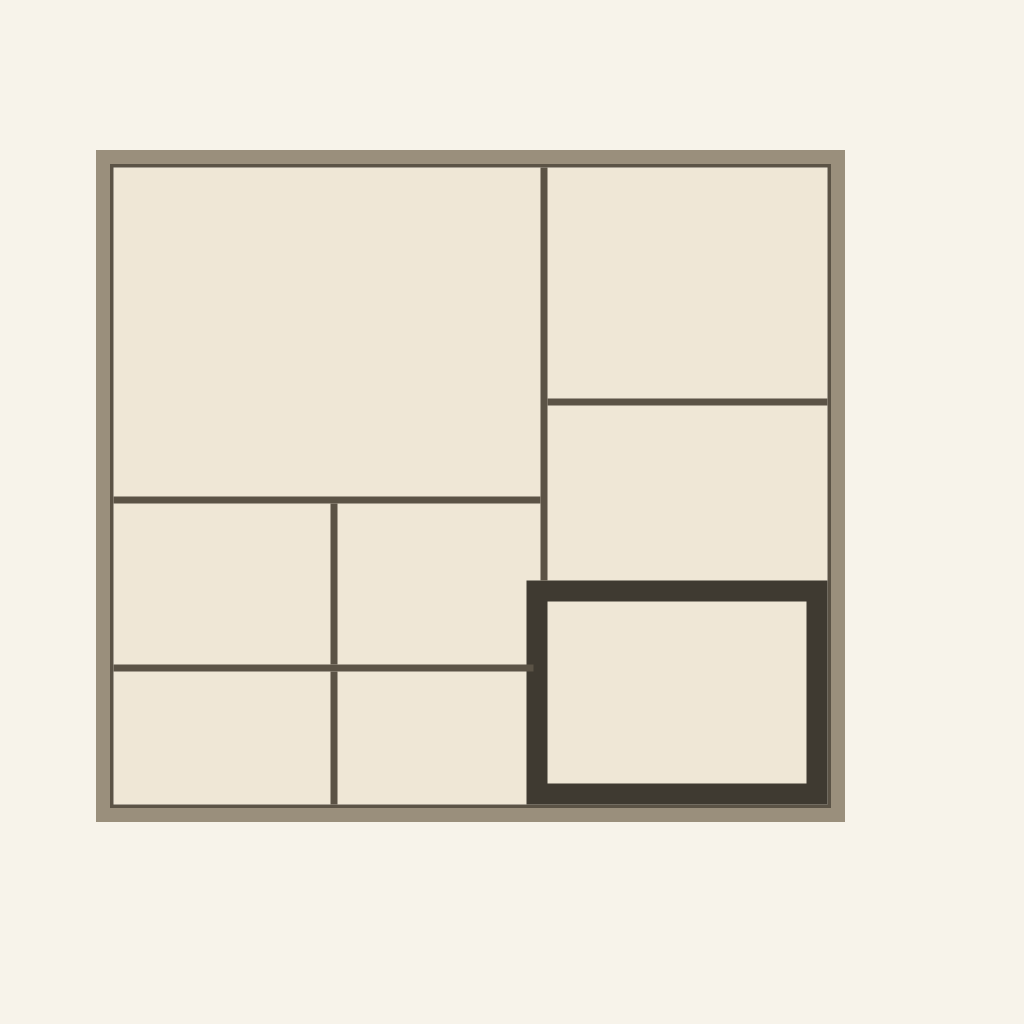
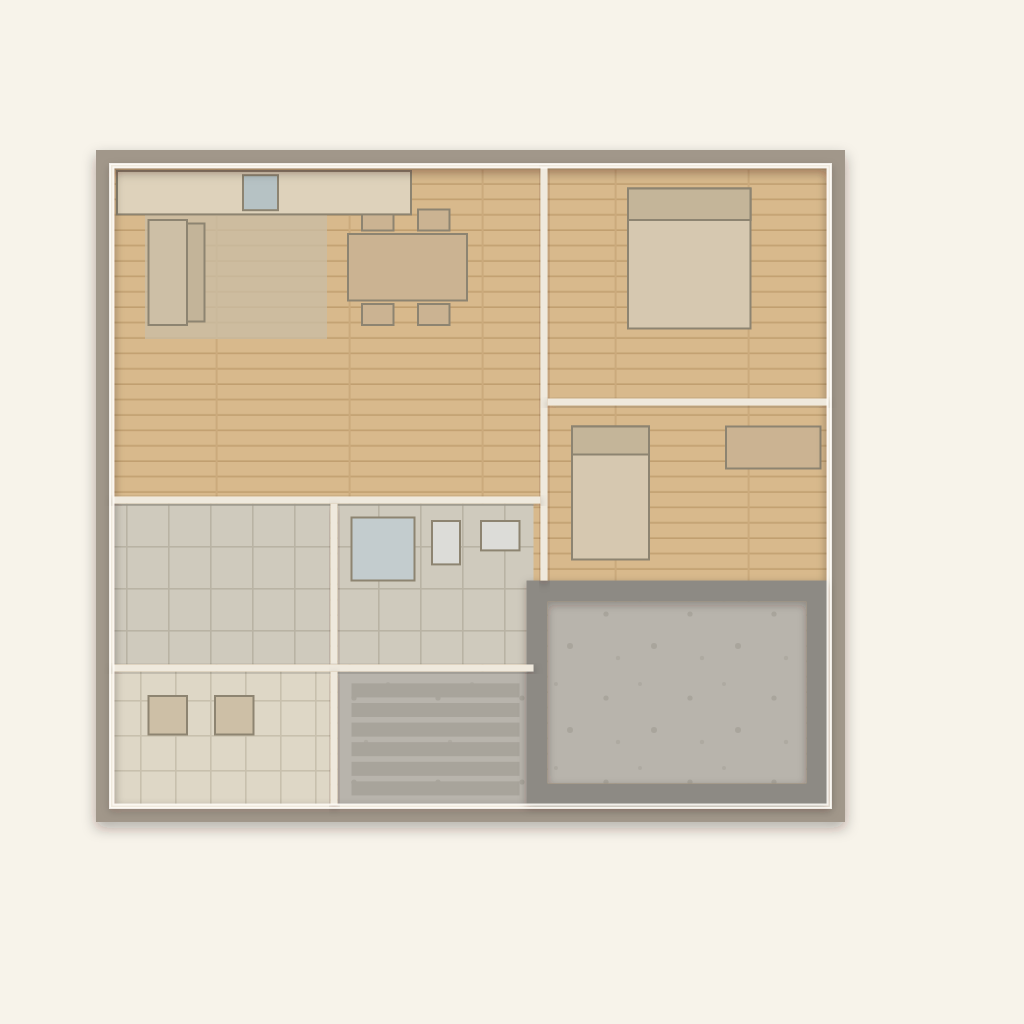
מראה תלת-מימדי לתוכנית, מצויר בקוד ולא במודל
ריצוף לפי סוג החלל (פרקט, אריחים, ריצוף חוץ, בטון), ריהוט במבט על,
הצללה לאורך הקירות וקו אור על ראשם. אזורי הסימון הפכו שקופים למחצה,
כך שרואים דרכם את הרצפה.

למה לא תמונה ממודל: הרצנו את התוכנית דרך Gemini ומדדנו את התוצאה. הדירה
יצאה רחבה ב-28% וגבוהה ב-45% מהמקור, הקיר בין הסלון לחדרי השינה זז,
קיר החוץ הדרומי נעלם והממ"ד תפח. מודל תמונה מתכנן מחדש במקום לצבוע
מחדש, ואז שכבת הסימון כבר לא יושבת על הקירות.

diff --git a/js/flat.js b/js/flat.js
@@ -87,19 +87,99 @@ window.flat = (function () {
   /** שכבת הבסיס: רצפה, שלושת סוגי הקיר, והמחיצות.
       זו גם התמונה שנשלחת למודל כדי שיהפוך אותה לתלת מימד, ולכן הגיאומטריה
       כאן זהה בדיוק לזו של אזורי הסימון. */
-  function baseLayer() {
-    const box = (r, fill) =>
-      '<rect x="' + x(r[0]) + '" y="' + y(r[1]) + '" width="' + m(r[2]) + '" height="' + m(r[3]) +
-      '" fill="' + fill + '"/>';
-    const ring = (outer, inner, fill) =>
-      '<path d="' + ringPath(outer, inner) + '" fill-rule="evenodd" fill="' + fill + '"/>';
+  function box(r, fill, extra) {
+    return '<rect x="' + x(r[0]) + '" y="' + y(r[1]) + '" width="' + m(r[2]) + '" height="' + m(r[3]) +
+      '" fill="' + fill + '"' + (extra || '') + '/>';
+  }
+  function ring(outer, inner, fill, extra) {
+    return '<path d="' + ringPath(outer, inner) + '" fill-rule="evenodd" fill="' + fill + '"' +
+      (extra || '') + '/>';
+  }
 
+  /** דפוסי הרצפה והצללת הקירות. הכול מצויר, ולכן כל קו יושב במקום שהגיאומטריה
+      קובעת. ניסיון להוציא רקע ממודל תמונה נכשל: הוא הרחיב את הדירה ב-28% לרוחב
+      וב-45% לגובה, הזיז קירות פנימיים והשמיט את קיר החוץ הדרומי. */
+  function defs() {
+    const plank = (id, a, b, c) =>
+      '<pattern id="' + id + '" width="' + m(1.9) + '" height="' + m(0.22) + '" patternUnits="userSpaceOnUse">' +
+        '<rect width="' + m(1.9) + '" height="' + m(0.22) + '" fill="' + a + '"/>' +
+        '<rect width="' + m(1.9) + '" height="1.6" y="' + (m(0.22) - 1.6) + '" fill="' + b + '"/>' +
+        '<rect width="2" height="' + m(0.22) + '" x="' + m(1.18) + '" fill="' + c + '"/>' +
+      '</pattern>';
+    const tile = (id, a, b, s) =>
+      '<pattern id="' + id + '" width="' + m(s) + '" height="' + m(s) + '" patternUnits="userSpaceOnUse">' +
+        '<rect width="' + m(s) + '" height="' + m(s) + '" fill="' + a + '"/>' +
+        '<rect width="' + m(s) + '" height="1.6" fill="' + b + '"/>' +
+        '<rect width="1.6" height="' + m(s) + '" fill="' + b + '"/>' +
+      '</pattern>';
+    return '<defs>' +
+      plank('wood', '#d9c3a2', '#c6ab85', '#cfb693') +
+      tile('tiles', '#cfcabd', '#b9b3a4', 0.6) +
+      tile('outdoor', '#ded7c6', '#c8c0ad', 0.5) +
+      '<pattern id="concrete" width="' + m(1.2) + '" height="' + m(1.2) + '" patternUnits="userSpaceOnUse">' +
+        '<rect width="' + m(1.2) + '" height="' + m(1.2) + '" fill="#b8b4ac"/>' +
+        '<circle cx="18" cy="26" r="2.6" fill="#a9a59c"/><circle cx="52" cy="12" r="2" fill="#aeaaa1"/>' +
+        '<circle cx="66" cy="58" r="3" fill="#a9a59c"/><circle cx="30" cy="70" r="2.2" fill="#aeaaa1"/>' +
+      '</pattern>' +
+      '<filter id="drop" x="-20%" y="-20%" width="150%" height="150%">' +
+        '<feDropShadow dx="0" dy="6" stdDeviation="7" flood-color="#2a2118" flood-opacity="0.35"/>' +
+      '</filter>' +
+      '<filter id="inner" x="-20%" y="-20%" width="150%" height="150%">' +
+        '<feDropShadow dx="0" dy="3" stdDeviation="4" flood-color="#2a2118" flood-opacity="0.30"/>' +
+      '</filter>' +
+    '</defs>';
+  }
+
+  /** ריהוט במבט על. צורות פשוטות, רק כדי שכל חלל ייקרא למה הוא משמש. */
+  function furniture() {
+    const g = (s) => '<g fill="#b9ad97" stroke="#8d8471" stroke-width="2">' + s + '</g>';
     let out = '';
-    out += box(ENVELOPE, "#efe7d6");                                  // הרצפה
-    out += ring(OUTER, [0.20, 0.20, 10.3, 9.2], "#9a8f7c");           // 20 ס"מ חיצוניים, בידוד וחיפוי
-    out += ring([0.20, 0.20, 10.3, 9.2], ENVELOPE, "#5b5346");        // 25 ס"מ פנימיים, הבלוק הנושא
-    out += ring([6.15, 6.15, 4.30, 3.20], [6.45, 6.45, 3.70, 2.60], "#3f3a31"); // בטון הממ"ד
-    for (const p of PARTITIONS) out += box(p, "#5b5346");             // מחיצות פנים
+    // סלון: שטיח, ספה ושולחן אוכל
+    out += box([0.7, 0.8, 2.6, 1.9], "#c9bda6", ' opacity="0.75"');
+    out += g(box([0.75, 0.95, 0.30, 1.60], "#cdbfa6") +   // גב הספה
+             box([1.05, 1.05, 0.62, 1.40], "#d8ccb6") +    // מושב
+             box([1.05, 0.95, 0.62, 0.12], "#c3b499") +
+             box([1.05, 2.33, 0.62, 0.12], "#c3b499"));
+    out += g(box([3.6, 1.2, 1.7, 0.95], "#cbb392") +
+             box([3.8, 0.85, 0.45, 0.3], "#cbb392") + box([4.6, 0.85, 0.45, 0.3], "#cbb392") +
+             box([3.8, 2.2, 0.45, 0.3], "#cbb392") + box([4.6, 2.2, 0.45, 0.3], "#cbb392"));
+    // מטבח: משטח לאורך הקיר העליון
+    out += g(box([0.3, 0.3, 4.2, 0.62], "#ded2bb") + box([2.1, 0.36, 0.5, 0.5], "#b6c2c4"));
+    // חדר שינה 1: מיטה זוגית
+    out += g(box([7.6, 0.55, 1.75, 2.0], "#d6c8b0") + box([7.6, 0.55, 1.75, 0.45], "#c4b599"));
+    // חדר שינה 2: מיטת יחיד ושולחן עבודה
+    out += g(box([6.8, 3.95, 1.1, 1.9], "#d6c8b0") + box([6.8, 3.95, 1.1, 0.4], "#c4b599") +
+             box([9.0, 3.95, 1.35, 0.6], "#cbb392"));
+    // חדר רחצה: מקלחת, אסלה וכיור
+    out += g(box([3.65, 5.25, 0.9, 0.9], "#c3ccce") + box([4.8, 5.3, 0.4, 0.62], "#dcdcd8") +
+             box([5.5, 5.3, 0.55, 0.42], "#dcdcd8"));
+    // מרפסת: שני כיסאות
+    out += g(box([0.75, 7.8, 0.55, 0.55], "#cdbfa6") + box([1.7, 7.8, 0.55, 0.55], "#cdbfa6"));
+    // פיר מדרגות: שלחי מדרגות
+    for (let i = 0; i < 6; i++) {
+      out += box([3.65, 7.62 + i * 0.28, 2.4, 0.2], "#a8a49b");
+    }
+    return out;
+  }
+
+  function baseLayer() {
+    let out = defs();
+    // רצפות
+    out += box(ENVELOPE, "url(#wood)");
+    out += box(ZONES.bath.rect, "url(#tiles)");
+    out += box(ZONES.hall.rect, "url(#tiles)");
+    out += box(ZONES.balcony.rect, "url(#outdoor)");
+    out += box(ZONES.shaft.rect, "url(#concrete)");
+    out += box(ZONES.mamad.rect, "url(#concrete)");
+    out += furniture();
+    // קירות, מהחוץ פנימה, עם הצללה שנותנת את תחושת העובי
+    out += ring(OUTER, [0.20, 0.20, 10.3, 9.2], "#a1978a", ' filter="url(#drop)"');
+    out += ring([0.20, 0.20, 10.3, 9.2], ENVELOPE, "#efe9dd", ' filter="url(#inner)"');
+    out += ring([6.15, 6.15, 4.30, 3.20], [6.45, 6.45, 3.70, 2.60], "#8d8a84", ' filter="url(#inner)"');
+    for (const p of PARTITIONS) out += box(p, "#efe9dd", ' filter="url(#inner)"');
+    // קו עליון בהיר על ראש הקירות, מה שנותן את הרושם התלת-מימדי
+    out += ring([0.20, 0.20, 10.3, 9.2], ENVELOPE, "none",
+      ' stroke="#fffdf8" stroke-width="2" stroke-opacity="0.85"');
     return out;
   }
 
@@ -124,7 +204,8 @@ window.flat = (function () {
 
   function render(active, on) {
     const act = new Set(active), sel = new Set(on);
-    let out = '<svg viewBox="0 0 ' + W + ' ' + H + '" class="flat" role="img" ' +
+    // הבד עצמו ריבועי, אבל התצוגה נחתכת סביב הדירה כדי שלא יישאר שוליים ריקים
+    let out = '<svg viewBox="20 74 901 824" class="flat" role="img" ' +
       'aria-label="תוכנית דירה עם חדרים, ממד, מרפסת ופיר מדרגות">';
     out += '<rect x="0" y="0" width="' + W + '" height="' + H + '" fill="#f7f3ea"/>';
     // רקע: התמונה התלת-מימדית אם הוטענה, ואחרת שכבת הבסיס הווקטורית. שתיהן
@@ -134,18 +215,12 @@ window.flat = (function () {
       : baseLayer();
 
     // כל האזורים ברקע, כדי שהדירה תמיד תיראה שלמה
-    if (!bg) {
-      for (const id of Object.keys(ZONES)) {
-        if (act.has(id)) continue;
-        out += '<path d="' + shapeOf(id) + '" fill-rule="evenodd" fill="' + FILL.mute +
-          '" stroke="#cbc2b0" stroke-width="1.5"/>';
-      }
-    }
+    // אין שכבת השתקה: הרקע המצויר הוא מה שרואים, והאזורים הפעילים מסומנים מעליו.
     // האזורים הפעילים, מעל
     for (const id of active) {
       const isOn = sel.has(id);
-      const fill = isOn ? FILL.on : (bg ? "#ffffff" : FILL.off);
-      const op = isOn ? (bg ? 0.62 : 0.85) : (bg ? 0.12 : 1);
+      const fill = isOn ? FILL.on : "#ffffff";
+      const op = isOn ? 0.55 : 0.18;
       out += '<path class="zone" data-zone="' + id + '" d="' + shapeOf(id) + '" fill-rule="evenodd" ' +
         'fill="' + fill + '" fill-opacity="' + op + '" stroke="#2a2118" stroke-width="3"/>';
     }
